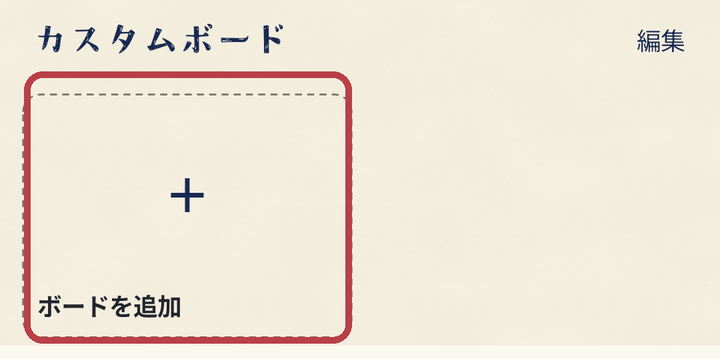
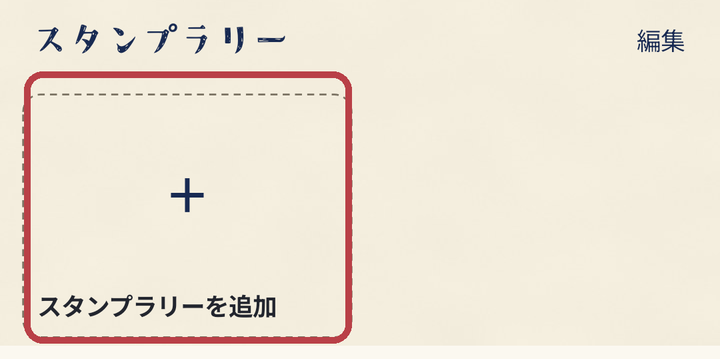
Call boards スタンプラリー in Japanese
「ボード」 meant nothing to Japanese users; the screens, buttons and messages
now say スタンプラリー (「スタンプラリーを追加」, 「スタンプラリーの地点」).
English keeps "board". The Add and Manage titles shrink to fit the bar
instead of being cut off, as the Japanese got longer, and the how-to
screenshots are retaken.

Changed region(s): [[0.0611, 0.0613, 0.3972, 0.1532], [0.0306, 0.8273, 0.3972, 0.8886]]

diff --git a/Views/ManageCustomBoardsPage.xaml b/Views/ManageCustomBoardsPage.xaml
@@ -10,7 +10,11 @@
     x:DataType="viewmodels:ManageCustomBoardsPageViewModel"
     Style="{StaticResource PaperPage}">
     <Shell.TitleView>
-        <controls:StampLabel Style="{StaticResource StampTitle}" Text="{x:Static strings:AppResources.ManageBoards}" />
+        <!--  The whole title, made smaller to fit the bar when it is long (「スタンプラリーを追加」)  -->
+        <controls:FittingStampLabel
+            LineBreakMode="WordWrap"
+            Style="{StaticResource StampTitle}"
+            Text="{x:Static strings:AppResources.ManageBoards}" />
     </Shell.TitleView>
     <Grid Padding="12" RowSpacing="10">
         <Grid.RowDefinitions>

diff --git a/Views/BoardCatalogPage.xaml b/Views/BoardCatalogPage.xaml
@@ -84,7 +84,11 @@
         <BackButtonBehavior Command="{Binding NavigateBackCommand}" />
     </Shell.BackButtonBehavior>
     <Shell.TitleView>
-        <controls:StampLabel Style="{StaticResource StampTitle}" Text="{x:Static strings:AppResources.AddBoard}" />
+        <!--  The whole title, made smaller to fit the bar when it is long (「スタンプラリーを追加」)  -->
+        <controls:FittingStampLabel
+            LineBreakMode="WordWrap"
+            Style="{StaticResource StampTitle}"
+            Text="{x:Static strings:AppResources.AddBoard}" />
     </Shell.TitleView>
     <Grid Padding="12" RowSpacing="10">
         <Grid.RowDefinitions>

diff --git a/tools/howto_screens.py b/tools/howto_screens.py
@@ -37,7 +37,7 @@ STAMP_RED = (185, 64, 71)
 # Texts the script looks for, per language.
 TEXTS = {
     "en": {"stamp": "Stamp where I am", "add_board": "Add board", "custom_boards": "Custom boards", "tab": "Passport"},
-    "ja": {"stamp": "現在地でスタンプ", "add_board": "ボードを追加", "custom_boards": "カスタムボード", "tab": "パスポート"},
+    "ja": {"stamp": "現在地でスタンプ", "add_board": "スタンプラリーを追加", "custom_boards": "スタンプラリー", "tab": "パスポート"},
 }
 # Country of residence for the passport cover in the screenshots.
 COVER = {"en": "US", "ja": "JP"}
@@ -187,7 +187,7 @@ def take(lang, original_db):
     plus = find("+", exact=True)
     # The whole card: from above its "+" to below its title, as wide as the title.
     card = (label[0] - 4, plus[1] - 40, label[2] + 4, label[3] + 14)
-    heading = find(t["custom_boards"])
+    heading = find(t["custom_boards"], exact=True)
     tab_bar = find(t["tab"], exact=True)[1] - 60   # stop above the tab bar
     top = max(282, heading[1] - 30)
     save(screen(), (0, top, 1080, min(tab_bar, card[3] + 40)), card, f"howto_boards_{lang}.png")
